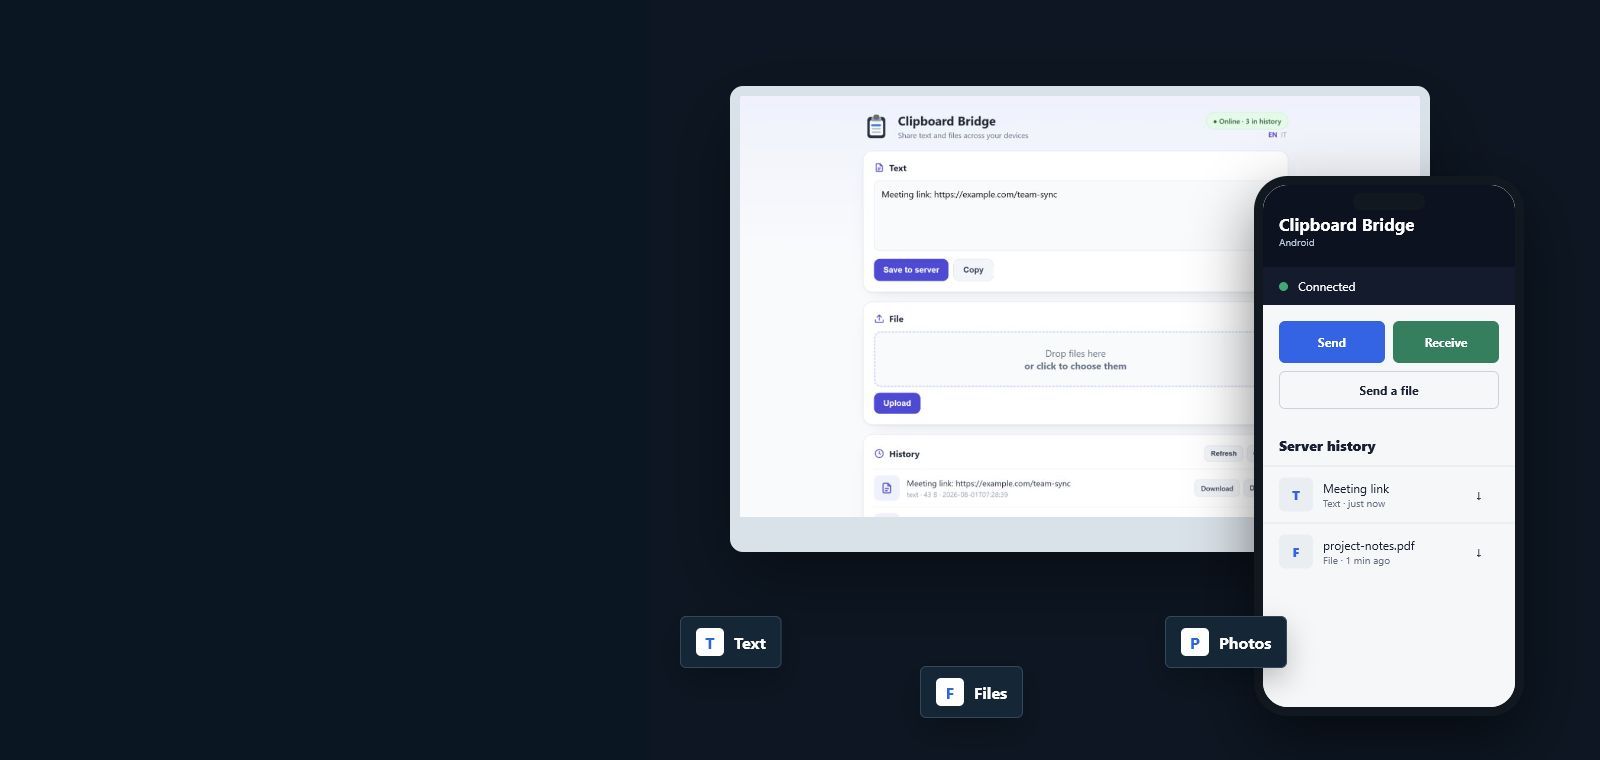
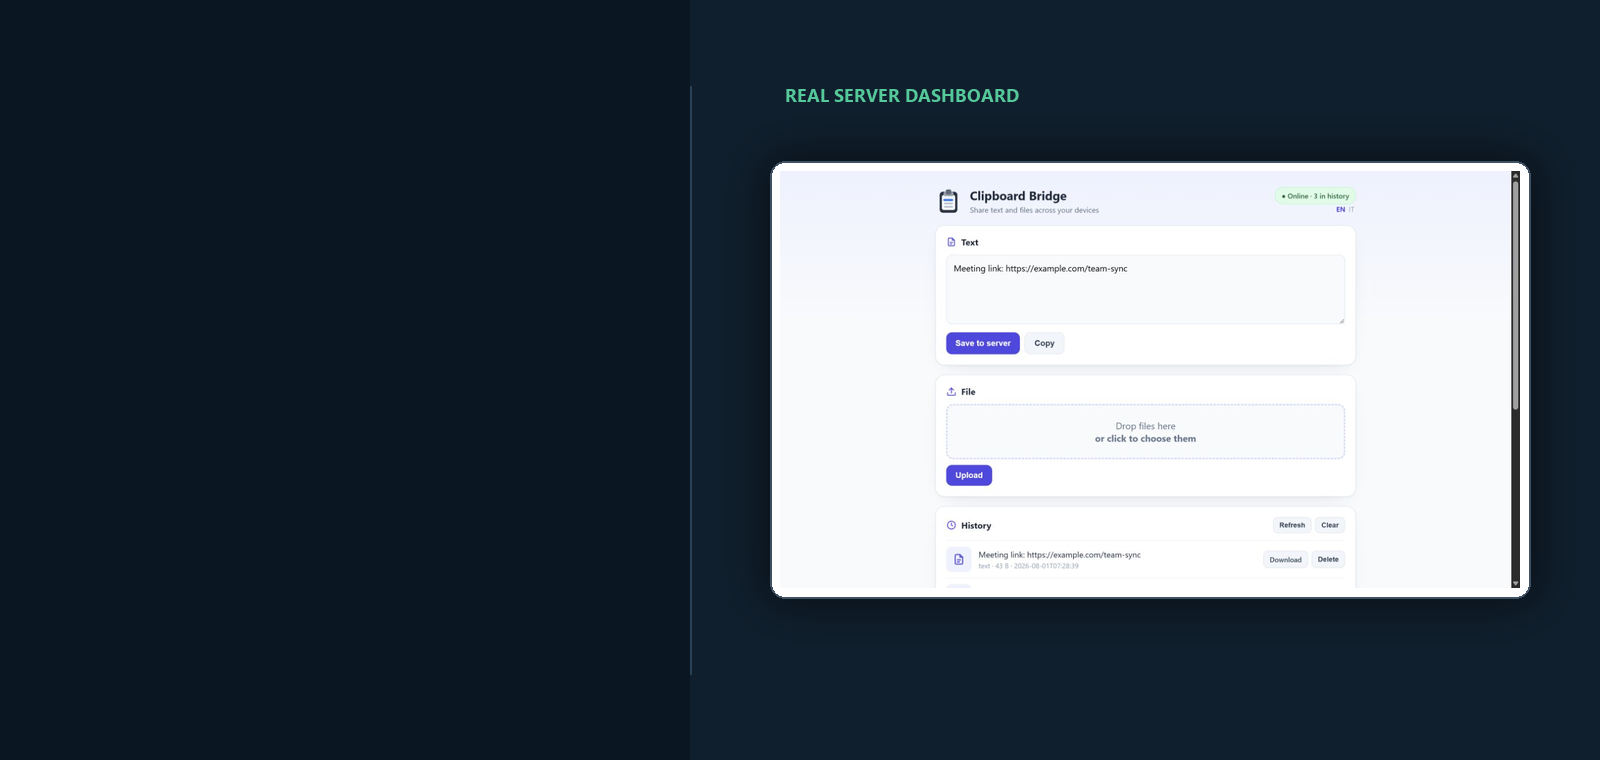
Simplify visual documentation and landing hero

diff --git a/docs/index.html b/docs/index.html
@@ -69,13 +69,12 @@
     .nav-links a{font-size:14px;font-weight:700;text-decoration:none;color:#34434f}
     .nav-links a:last-child{padding:8px 13px;border:1px solid var(--line);border-radius:6px}
     .nav-links a:hover{color:var(--blue)}
-    .hero{min-height:620px;display:flex;align-items:center;position:relative;isolation:isolate;background:#0b1623 url("assets/hero-background.png") center/cover no-repeat;color:#fff;overflow:hidden}
-    .hero:before{content:"";position:absolute;z-index:-1;inset:0 auto 0 0;width:58%;background:rgba(7,18,29,.92)}
+    .hero{min-height:620px;display:flex;align-items:center;background:#0b1623 url("assets/hero-background.png") center/cover no-repeat;color:#fff;overflow:hidden}
     .hero-inner{width:min(1120px,100%);margin:auto;padding:76px 24px 58px}
     .eyebrow{display:inline-flex;align-items:center;gap:8px;font-size:13px;font-weight:800;text-transform:uppercase;color:#b8d6ff}
     .eyebrow:before{content:"";width:28px;height:3px;background:#53d3a6}
-    h1{max-width:650px;font-size:clamp(42px,6vw,70px);line-height:1.03;margin:18px 0 22px;letter-spacing:0}
-    .lead{max-width:610px;font-size:20px;color:#e6eef5;margin:0}
+    h1{max-width:500px;font-size:clamp(42px,5vw,60px);line-height:1.03;margin:18px 0 22px;letter-spacing:0}
+    .lead{max-width:500px;font-size:19px;color:#e6eef5;margin:0}
     .actions{display:flex;flex-wrap:wrap;gap:12px;margin-top:30px}
     .button{display:inline-flex;align-items:center;justify-content:center;min-height:48px;padding:0 19px;border:1px solid currentColor;border-radius:6px;color:#fff;text-decoration:none;font-weight:750;transition:transform .18s ease,box-shadow .18s ease,background .18s ease}
     .button:hover{transform:translateY(-2px)}
@@ -116,10 +115,17 @@
     .screens{display:grid;grid-template-columns:1.45fr .55fr;gap:22px;align-items:center;margin-top:36px}
     .screen{display:block;width:100%;height:auto;max-height:560px;object-fit:contain;background:#fff;border:1px solid var(--line);border-radius:8px;padding:10px;box-shadow:var(--shadow)}
     .visual-explainer{display:block;width:100%;height:auto;margin-top:38px;border:1px solid var(--line);border-radius:8px;background:#fff;box-shadow:0 12px 34px rgba(21,33,43,.08)}
-    .device-previews{display:grid;grid-template-columns:.82fr 1.18fr;gap:28px;align-items:center;margin-top:34px}
-    .device-preview{margin:0;min-width:0}
-    .device-preview img{display:block;width:100%;height:auto;max-height:680px;object-fit:contain;border-radius:8px;box-shadow:var(--shadow)}
-    .device-preview figcaption{margin-top:12px;color:var(--muted);font-size:14px;text-align:center}
+    .flow-line{display:grid;grid-template-columns:1fr auto 1fr;align-items:center;gap:22px;margin-top:38px;padding:26px 0;border-top:1px solid var(--line);border-bottom:1px solid var(--line)}
+    .flow-devices{display:flex;flex-wrap:wrap;gap:10px}
+    .flow-devices span,.flow-result{padding:8px 12px;border:1px solid var(--line);border-radius:5px;background:#fff;font-weight:750}
+    .flow-server{color:var(--green);font-size:18px;font-weight:800;text-align:center}
+    .flow-result{text-align:center}
+    .platform-columns{display:grid;grid-template-columns:1fr 1fr;gap:0;margin-top:36px;border-top:1px solid var(--line);border-bottom:1px solid var(--line)}
+    .platform-column{padding:30px 38px 30px 0}
+    .platform-column+ .platform-column{padding-left:38px;border-left:1px solid var(--line)}
+    .platform-label{display:block;margin-bottom:8px;color:var(--green);font-size:13px;font-weight:800;text-transform:uppercase}
+    .platform-column h3{margin:0 0 10px;font-size:24px}
+    .platform-column p{color:var(--muted);margin:0 0 16px}
     #shortcuts{background:var(--soft-blue)}
     #shortcuts .section-copy:last-child{padding:18px 20px;background:#fff;border-left:4px solid var(--coral);border-radius:4px}
     details{border-top:1px solid var(--line);padding:19px 0}
@@ -128,9 +134,10 @@
     details p{color:var(--muted);max-width:820px;margin-bottom:4px}
     footer{padding:38px 24px;border-top:1px solid var(--line);color:var(--muted);background:#f8fafb}
     footer .inner{display:flex;justify-content:space-between;gap:20px;flex-wrap:wrap}
+    @media(max-width:1180px){.hero{background-image:none}.hero-inner{max-width:900px}h1,.lead{max-width:680px}}
     @media(max-width:960px){#download .grid{grid-template-columns:1fr 1fr}}
-    @media(max-width:820px){.nav-links a:not(:last-child){display:none}.hero{min-height:600px;background-position:70% center}.hero:before{width:100%;background:rgba(7,18,29,.88)}.grid{grid-template-columns:1fr 1fr}.steps{grid-template-columns:1fr}.showcase{grid-template-columns:1fr}.showcase-copy{max-width:680px}.device-previews{grid-template-columns:1fr 1fr;gap:16px}}
-    @media(max-width:600px){nav{height:62px;padding:0 18px}.brand img{width:30px;height:30px}.hero{min-height:680px;background-position:72% center}.hero:before{background:rgba(7,18,29,.93)}.hero-inner{padding:38px 20px 26px}.eyebrow{font-size:11px}h1{font-size:36px;line-height:1.04;margin:12px 0 16px}.lead{font-size:16px}.actions{margin-top:20px}.button{width:100%;min-height:44px}.hero-facts{display:grid;grid-template-columns:1fr 1fr;gap:8px 14px;margin-top:28px;padding-top:17px}.hero-facts span{font-size:12px}.grid,.modes,#download .grid,.device-previews,.screens{grid-template-columns:1fr}.screens{gap:18px}main section{padding:58px 20px}.item,.mode{padding:22px}.device-preview img{max-height:560px}}
+    @media(max-width:820px){.nav-links a:not(:last-child){display:none}.hero{min-height:600px}.grid{grid-template-columns:1fr 1fr}.steps{grid-template-columns:1fr}.showcase{grid-template-columns:1fr}.showcase-copy{max-width:680px}.flow-line{grid-template-columns:1fr}.flow-server{text-align:left}.platform-columns{grid-template-columns:1fr}.platform-column{padding:28px 0}.platform-column+ .platform-column{padding-left:0;border-left:0;border-top:1px solid var(--line)}}
+    @media(max-width:600px){nav{height:62px;padding:0 18px}.brand img{width:30px;height:30px}.hero{min-height:610px}.hero-inner{padding:38px 20px 26px}.eyebrow{font-size:11px}h1{font-size:36px;line-height:1.04;margin:12px 0 16px}.lead{font-size:16px}.actions{margin-top:20px}.button{width:100%;min-height:44px}.hero-facts{display:grid;grid-template-columns:1fr;gap:8px;margin-top:28px;padding-top:17px}.hero-facts span{font-size:12px}.grid,.modes,#download .grid,.screens{grid-template-columns:1fr}.screens{gap:18px}main section{padding:58px 20px}.item,.mode{padding:22px}}
   </style>
 </head>
 <body>
@@ -148,17 +155,17 @@
 
   <header class="hero">
     <div class="hero-inner">
-      <div class="eyebrow">Local and self-hosted clipboard sharing</div>
-      <h1>One clipboard for Windows, Android and iPhone</h1>
-      <p class="lead">Transfer text, photos and files over your private network with the native Android app and two iOS Shortcuts. Run the server directly from Windows or use your own always-on Docker host.</p>
+      <div class="eyebrow">Open source &middot; Local &middot; Self-hosted</div>
+      <h1>Clipboard sharing across every device</h1>
+      <p class="lead">Send and receive text, photos and files between Windows, Android and iPhone through your own network. Use Windows as the server or run Docker or Python.</p>
       <div class="actions">
-        <a class="button primary" href="#download">Choose your download</a>
-        <a class="button" href="https://github.com/Mattboxx/Clipboard-Bridge/blob/main/GUIDE.md">Setup guide</a>
+        <a class="button primary" href="#download">Download</a>
+        <a class="button" href="#start">See how it works</a>
       </div>
       <div class="hero-facts">
-        <span><strong>2 modes</strong> with or without a separate server</span>
-        <span><strong>Any item</strong> text, photos and files</span>
-        <span><strong>Private</strong> local and self-hosted</span>
+        <span><strong>Text, photos and files</strong></span>
+        <span><strong>No cloud account</strong></span>
+        <span><strong>Two server modes</strong></span>
       </div>
     </div>
   </header>
@@ -233,7 +240,11 @@
         <div class="actions">
           <a class="button primary" style="background:#1769e0;color:#fff;border-color:#1769e0" href="https://github.com/Mattboxx/Clipboard-Bridge/blob/main/GUIDE.md">Open the complete setup guide</a>
         </div>
-        <img class="visual-explainer" src="assets/platform-flow.png" alt="Windows, Android and iPhone connected through one ordered Clipboard Bridge history">
+        <div class="flow-line" aria-label="All devices exchange the latest clipboard item through Clipboard Bridge">
+          <div class="flow-devices"><span>Windows</span><span>Android</span><span>iPhone</span></div>
+          <div class="flow-server">&harr; Clipboard Bridge &harr;</div>
+          <div class="flow-result">Latest item and ordered history</div>
+        </div>
       </div>
     </section>
 
@@ -282,20 +293,24 @@
       </div>
     </section>
 
-    <section class="band" id="platform-preview">
+    <section class="band" id="platforms">
       <div class="inner">
-        <span class="section-kicker">Designed for each device</span>
-        <h2>Native Android controls and simple iPhone Shortcuts</h2>
-        <p class="section-copy">Android provides a complete app with live server history. iPhone and iPad use two prepared Shortcuts for every content type, available from the Share Sheet or Control Center.</p>
-        <div class="device-previews">
-          <figure class="device-preview">
-            <img src="assets/android-app.png" alt="Native Android app preview with send, receive and server history">
-            <figcaption>Android: native actions, automatic receiving and live server history.</figcaption>
-          </figure>
-          <figure class="device-preview">
-            <img src="assets/iphone-shortcuts.png" alt="iPhone Load Clipboard and Download Clipboard Shortcuts">
-            <figcaption>iPhone and iPad: two universal Shortcuts, also available in Control Center.</figcaption>
-          </figure>
+        <span class="section-kicker">Phone controls</span>
+        <h2>Use the controls native to each device</h2>
+        <p class="section-copy">Android uses the Clipboard Bridge app. iPhone and iPad use two prepared Shortcuts. Both connect to the same server and always exchange the most recent item, regardless of its type.</p>
+        <div class="platform-columns">
+          <article class="platform-column">
+            <span class="platform-label">Android 10+</span>
+            <h3>Native Android app</h3>
+            <p>Send the clipboard, receive the latest item, share files from other apps, browse server history and enable incoming notifications.</p>
+            <a href="https://github.com/Mattboxx/Clipboard-Bridge/releases/download/2.0.4/Clipboard.Bridge.Android.universal.V1.0.0-beta.8.apk">Download the Android APK</a>
+          </article>
+          <article class="platform-column">
+            <span class="platform-label">iPhone and iPad</span>
+            <h3>Two universal Shortcuts</h3>
+            <p>Load Clipboard sends the current item. Download Clipboard receives the latest one. Run them from Shortcuts, the Share Sheet or Control Center.</p>
+            <a href="#shortcuts">Configure the iPhone Shortcuts</a>
+          </article>
         </div>
       </div>
     </section>

diff --git a/README.it.md b/README.it.md
@@ -78,7 +78,13 @@ repository per documentazione, test, file Docker e sorgenti completi.
 
 ## Come funziona
 
-![Un solo flusso di clipboard condivisa per Windows, Android e iPhone](docs/assets/platform-flow.png)
+```mermaid
+flowchart LR
+    W["App Windows"] <--> S["Server Clipboard Bridge"]
+    A["App Android"] <--> S
+    I["Comandi rapidi iPhone"] <--> S
+    S --> H["Ultimo elemento e cronologia ordinata"]
+```
 
 Il server mantiene una cronologia ordinata per ogni spazio clipboard. **Testo, immagini
 e file hanno la stessa priorità:** l'ultima richiesta ricevuta è sempre l'elemento più
@@ -135,9 +141,8 @@ Non servono Docker o un server web separato.
 
 ## Android
 
-Il client Android nativo supporta Android 10 e versioni successive.
-
-<p align="center"><img src="docs/assets/android-app.png" alt="App nativa Clipboard Bridge per Android con invio, ricezione e cronologia server" width="720"></p>
+Il client Android nativo supporta Android 10 e versioni successive e legge la cronologia
+direttamente dal server Clipboard Bridge selezionato.
 
 ### Funzionalità
 
@@ -281,8 +286,6 @@ server gli elementi copiati in Windows.
 ## iPhone e iPad
 
 iOS usa due Comandi rapidi universali. Gli stessi comandi gestiscono testo, foto e file.
-
-![Due Comandi rapidi iPhone per inviare e ricevere ogni tipo di contenuto](docs/assets/iphone-shortcuts.png)
 
 ### Inviare la clipboard attuale
 

diff --git a/README.md b/README.md
@@ -78,7 +78,13 @@ documentation, tests, Docker files and complete source code.
 
 ## How it works
 
-![One shared clipboard flow for Windows, Android and iPhone](docs/assets/platform-flow.png)
+```mermaid
+flowchart LR
+    W["Windows app"] <--> S["Clipboard Bridge server"]
+    A["Android app"] <--> S
+    I["iPhone Shortcuts"] <--> S
+    S --> H["Latest item and ordered history"]
+```
 
 The server has one ordered history for each clipboard space. **Text, images and files
 have exactly the same priority:** the latest request is always the latest item.
@@ -134,9 +140,8 @@ No Docker container or separate web server is required.
 
 ## Android
 
-The native Android client supports Android 10 and later.
-
-<p align="center"><img src="docs/assets/android-app.png" alt="Clipboard Bridge native Android app with send, receive and live server history" width="720"></p>
+The native Android client supports Android 10 and later and reads its history directly
+from the selected Clipboard Bridge server.
 
 ### Features
 
@@ -279,8 +284,6 @@ to the server.
 ## iPhone and iPad
 
 iOS uses two universal Shortcuts. The same Shortcut handles text, photos and files.
-
-![Two iPhone Shortcuts for sending and receiving every content type](docs/assets/iphone-shortcuts.png)
 
 ### Send the current clipboard
 
